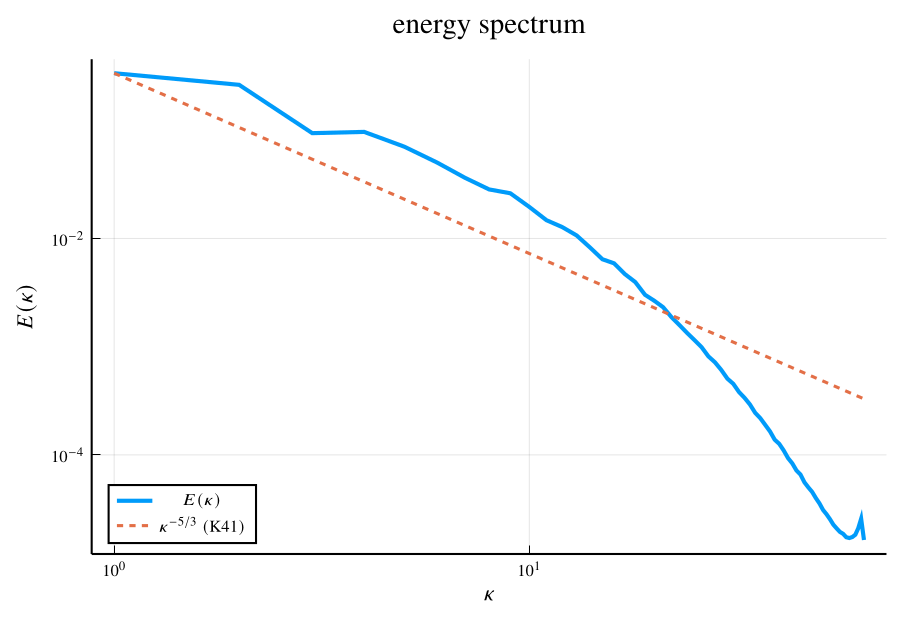
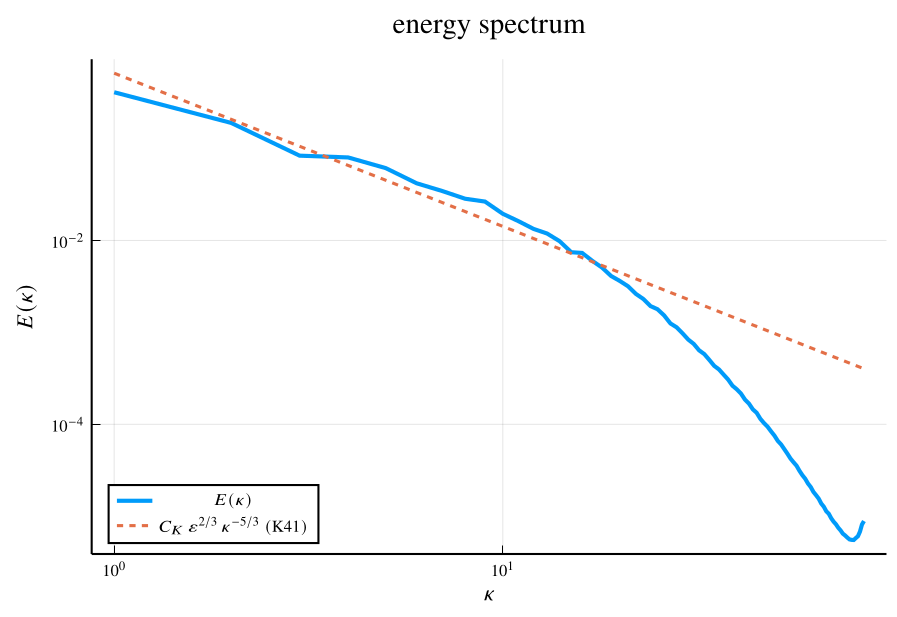
docs(examples): render the HIST example page fully in LaTeX; k(t)/κ notation; 256³ figures
The Literate page examples/HIST_CPU.jl is a rendered doc page under the LaTeX policy,
but only Method/Results had been converted — the rest of the prose carried bare-Unicode
and backtick-wrapped math. Convert ALL rendered prose to LaTeX (double-backtick inline,
math display blocks), keeping backticks for real code identifiers only; verified by
building the Literate markdown and the full Documenter build to zero math-glyph /
backtick-math violations in prose.

- Notation (Pope's convention, removing the k/E clashes): k = turbulent kinetic energy
  (the stationarity panel is now k(t), not E(t)); κ = wavenumber magnitude (spectrum
  E(κ)); ℰ the integrating factor; N̂₁/N̂₂ the RK stages (not k₁/k₂).
- Energy-spectrum guide is now the dimensionally-complete K41 inertial form
  C_K ε^(2/3) κ^(-5/3) (C_K≈1.6, measured ε), not a bare κ^(-5/3) slope — E(κ) and
  κ^(-5/3) have different dimensions and the prefactor reconciles them; C_K added to the
  bundle (plot-time adjustable).
- Figures regenerated from the 256³ --mega GPU run (Re_λ≈109, k_max·η≈1.33, ≈87 ms/step);
  doc and README numbers updated 192³→256³, --mega added to the usage blocks.
- Driver comments that fragmented the code (one inside an `if`) moved to `##` code
  comments so the loop stays one block.
- CLAUDE.md: the Literate-example doc policy refined (indented comments render as prose;
  a comment inside control flow fragments the code → use `##`).

diff --git a/CLAUDE.md b/CLAUDE.md
@@ -237,6 +237,34 @@ reading of the request. Do **not** run one check, sweep one file, then stop and 
 next; report the matrix (surfaces × checks: findings, fixes, and what is verified clean). This rule exists
 because the checks were repeatedly run one-at-a-time, surface-by-surface, across one review.
 
+**A Literate example (e.g. `examples/HIST_CPU.jl`) IS a rendered doc page — sweep and verify it like one.**
+Every **full-line `# ` comment becomes Markdown prose** on the built page (only inline `# …` after code on the
+same line, and `##` double-hash lines, stay as code comments). **"Full-line" includes INDENTED comments inside
+a function body** — a 2-space-indented `# …` on its own line still renders as prose, so the driver's internal
+step comments are rendered too (Literate strips the indentation). One consequence bit this page: a full-line
+comment **inside a control-flow block** (e.g. the first line inside an `if`/`for`) splits the code fence and
+strands the block header from its body. For a comment that must stay *in* the code — inside control flow, or
+any implementation note you don't want rendered — use `##` (Literate keeps it as a `#` code comment, math-glyph
+exempt) or make it inline after code; reserve full-line `# ` for genuine narrative prose at statement
+boundaries. So **all math in the prose comments is rendered and must be LaTeX** — double-backtick inline,
+```math``` display — exactly as in `ARCHITECTURE.md`. **Two forbidden
+failure modes, both found littered across this page:** (a) bare **Unicode glyphs** in prose (`Re_λ`, `λ ≪ L`,
+`∇·u = 0`, `exp(−νk²Δt)`) render as literal text, not math; (b) **math wrapped in backticks** — backticks are
+ONLY for a **code identifier that actually appears in the code** (a function/type/field/file name), so a
+*formula* in backticks (`` `exp(−νk²Δt)` ``, `` `|k|²` ``, `` `½⟨|u|²⟩` ``) is a lie: it renders as monospace
+code yet names nothing in the code. Convert BOTH kinds to LaTeX; keep backticks only for real code names. And an
+**underscored identifier in prose must be backticked** (`` `n_spinup` ``), or Markdown parses `n_spinup … n_stats`
+as an *italic* span across the underscores.
+
+**Verify a doc edit by BUILDING the page, not by eyeballing the diff.** After editing a Literate example,
+regenerate it (`Literate.markdown(src, out; documenter=false)`) and grep the OUTPUT prose for Unicode-math
+glyphs and backtick-wrapped formulas until the count is **zero** — the built page is the source of truth for
+what renders. The example page is a "check the docs" surface: the battery above (and `/check-docs`) must build
+and grep `examples/*.jl` → markdown too, not only `ARCHITECTURE.md` / `src/`. **This rule exists because a
+LaTeX pass was once applied to only the two paragraphs the user pointed at, leaving the rest of the page in
+Unicode/backtick math — the "fix the class, not the line" rule violated, and the gap went uncaught because the
+rendered page was never built and grepped (only the touched paragraphs were eyeballed).**
+
 **Markdown tables must be top-level — never indented inside a list item.** Documenter (CommonMark.jl) will
 not form a GFM table inside an indented list item; it falls back to literal text (the pipes and `---`
 render verbatim, rows mashed). Inside a list (e.g. an `ARCHITECTURE.md` §13 decision entry) use a **nested

diff --git a/examples/README.md b/examples/README.md
@@ -142,6 +142,7 @@ index inside a package method *throws* — invariant 6 enforced, not trusted. De
 
 ```sh
 julia --project=examples/gpu/rocm -e 'using Pkg; Pkg.instantiate()'         # one-time (installs AMDGPU)
+julia --project=examples/gpu/rocm examples/gpu/rocm/HIST_ROCm.jl --mega     # 256³ Float32, Re_λ≈109 (the documented figures)
 julia --project=examples/gpu/rocm examples/gpu/rocm/HIST_ROCm.jl --huge     # 192³ Float32, Re_λ≈93
 julia --project=examples/gpu/rocm examples/gpu/rocm/HIST_ROCm.jl --fast     # 64³
 julia --project=examples/gpu/rocm examples/gpu/rocm/HIST_ROCm.jl --smoke    # quick check
@@ -151,12 +152,14 @@ julia --project=examples/gpu/rocm examples/gpu/rocm/HIST_ROCm.jl --smoke    # qu
 over a preallocated workspace and the package's in-place operators are allocation-free (the spectral
 operators allocate ~0 bytes — `docs/ARCHITECTURE.md` decision 24), the run creates **no per-step
 garbage**: the AMDGPU memory pool stays flat, with **no manual `GC.gc()` / `reclaim`** and no wedge. A
-representative **192³ Float32** run on an RX 6700 XT (12 GB) reaches `Re_λ ≈ 93`, `k_max·η ≈ 1.13`
-(resolved), and sustains **≈ 34 ms/step** (8000 steps, ≈ 270 s of simulation), with the spectral-`inner`
-Parseval check matching the physical energy to all printed digits and `‖∇·u‖_rel ≈ 1e-8` (Float32
-roundoff). At fixed forcing the Reynolds number is set by `ν`, not the grid, so 192³ already gives the
-scale separation; a larger grid only adds dissipation-range resolution, at more memory (192³ is a
-comfortable fit on 12 GB). An *allocating* style would instead grow the device pool every step until it
+representative **256³ Float32** run (`--mega`) on an RX 6700 XT (12 GB) — the configuration behind the
+figures above — reaches `Re_λ ≈ 109`, `k_max·η ≈ 1.33` (comfortably resolved), and sustains **≈ 87
+ms/step** (9000 steps, ≈ 785 s of simulation), with the spectral-`inner` Parseval check matching the
+physical energy to all printed digits and `‖∇·u‖_rel ≈ 1.6e-7` (Float32 roundoff). It fits 12 GB because
+the working set stays ≈ 6 GB (≈ 8 GB peak through the snapshots) — both the time loop and the radial
+binning are allocation-bounded. This is about the practical `Re_λ` ceiling for the scheme: a lower `ν`
+raises `Re_λ` but drops `k_max·η` below ≈ 1.1, where the marginally-resolved flow blows up over a long
+averaging window. `--huge` (192³, `Re_λ ≈ 93`) is the lighter, very comfortable fit. An *allocating* style would instead grow the device pool every step until it
 wedges or `hipMalloc` aborts — which is exactly why a real GPU DNS preallocates.
 
 The only non-package pieces left (gap list) are the random-solenoidal IC generator and the host-side
